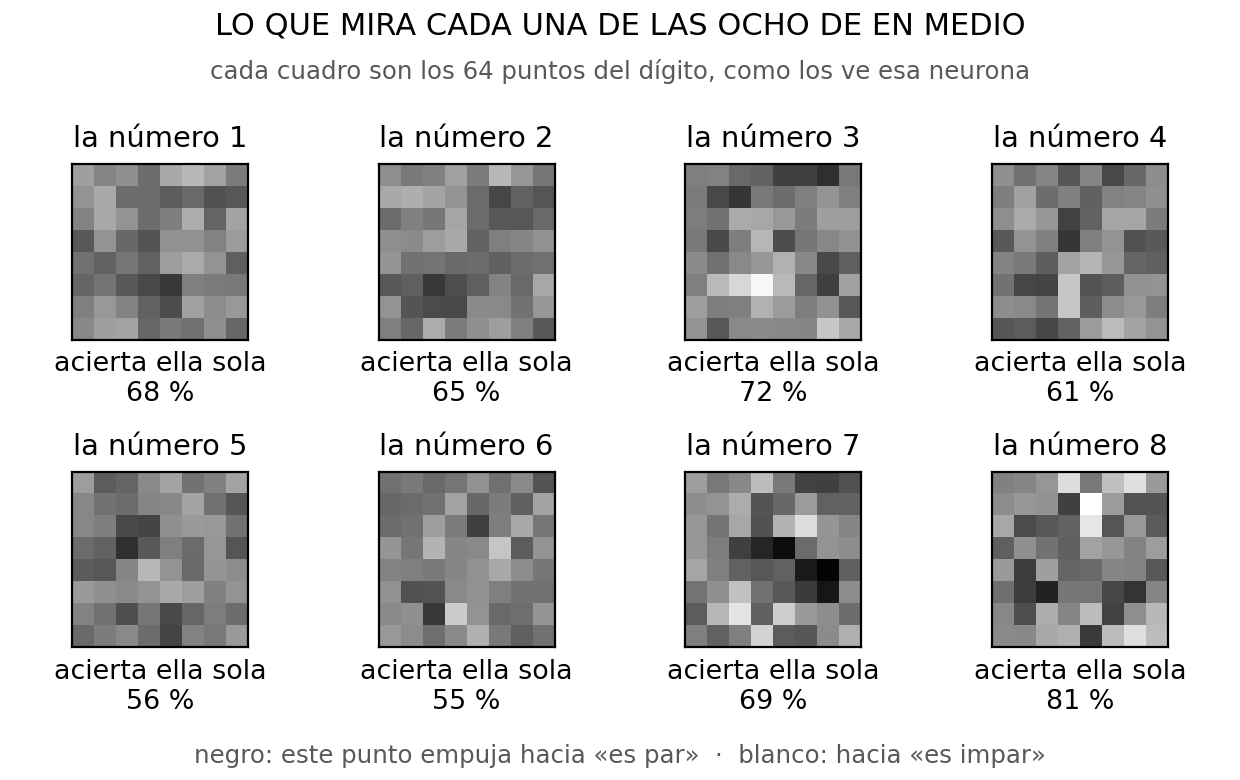
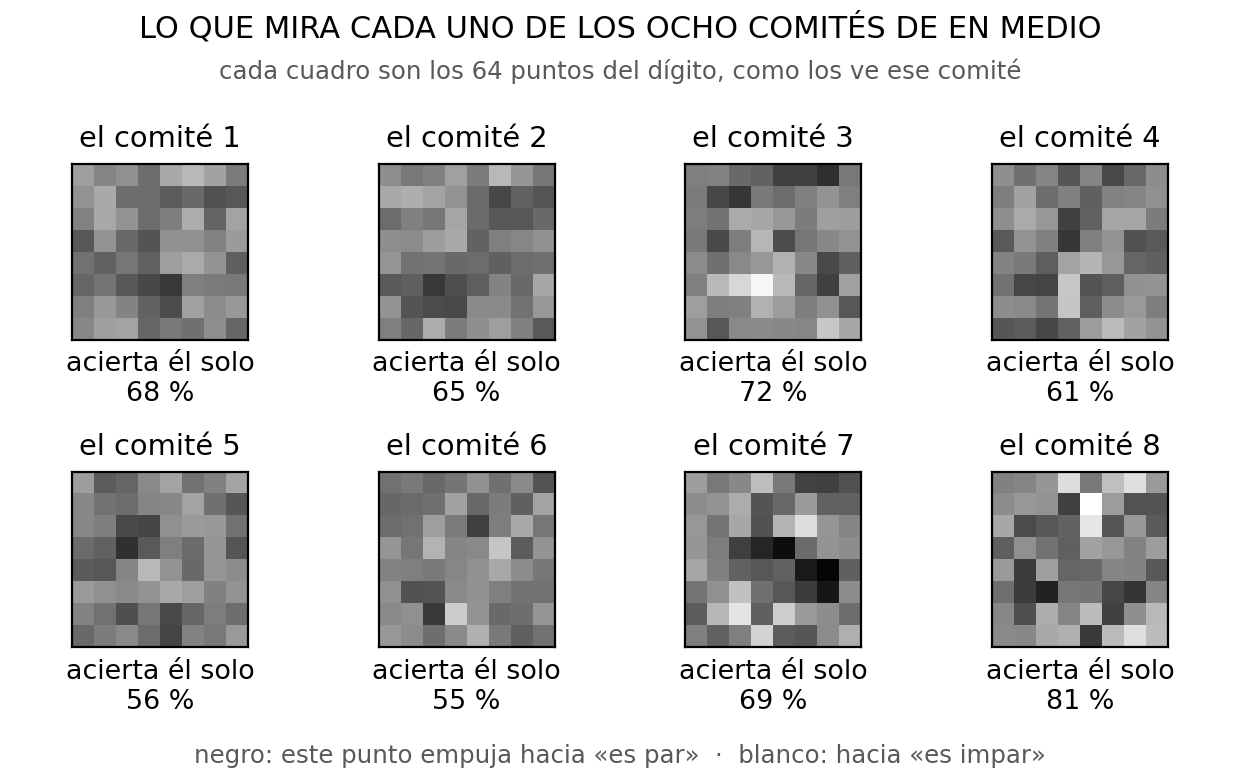
Un comite de miembros, y los ocho de en medio se llaman por su nombre
Carlos, leyendo el capitulo 3: «especificaria que nos referimos a ocho
comites». Al ir a arreglarlo aparecio algo mayor: el aparato del capitulo 2
se llamaba TRIBUNAL (18 veces) y el del 3 COMITE (17 veces), y eran el
mismo. En la misma pagina convivian: la prosa decia «un solo comite» y la
tabla, dos lineas mas abajo, «un solo tribunal, sin capa». El sintoma que
lo delataba era el genero, en un solo parrafo: «la mejor de las ocho» y
tres lineas despues «ninguno de los ocho sirve».

Se queda COMITE, con MIEMBROS. «tribunal» y «jurado» pasan a palabras
jubiladas en VOCABULARIO.md.

- que_mira_cada_una.py: las tres tablas dicen comite y dicen de cuantos
  comites hablan. «1 comite en medio», «2 comites en medio»: el plural se
  dice bien o no se dice.
- figura_una_capa.py: cada cuadro es «el comite N», no «la numero N».
- figura_una_neurona.py: miembros, no jurados.

Claude-Session: https://claude.ai/code/session_012cuTPu3mnKRQtUvBTtLSKH

diff --git a/codigo/que_mira_cada_una.py b/codigo/que_mira_cada_una.py
@@ -2,7 +2,7 @@
 """
 Capítulo de los conceptos — qué mira cada neurona de una capa.
 
-El libro dice que una capa son varios tribunales a la vez, cada uno con una
+El libro dice que una capa son varios comités a la vez, cada uno con una
 pregunta distinta sobre lo mismo, y que nadie les reparte las preguntas. Esto lo
 mide: entrena una red con una capa de en medio sobre dígitos manuscritos de verdad,
 y luego mira, una por una, qué ha acabado mirando cada neurona de esa capa y cuánto
@@ -37,10 +37,10 @@ REPETICIONES = 5               # arranques distintos por tamaño: una sola tirad
 # escondidos dentro de un print a mitad del fichero.
 TITULO_1 = "¿ES PAR ESTE DÍGITO ESCRITO A MANO?"
 SUBTITULO_1 = "de cada 100 dígitos que nunca había visto, cuántos acierta"
-TITULO_2 = "LO QUE ACIERTA, ELLA SOLA, CADA UNA DE LAS OCHO DE EN MEDIO"
-TITULO_3 = "CUÁNTO SE PARECEN ENTRE SÍ ESAS OCHO"
+TITULO_2 = "LO QUE ACIERTA, ÉL SOLO, CADA UNO DE LOS OCHO COMITÉS DE EN MEDIO"
+TITULO_3 = "CUÁNTO SE PARECEN ENTRE SÍ ESOS OCHO COMITÉS"
 SUBTITULO_3 = "(0 % serían ocho preguntas sin nada en común; 100 %, ocho copias)"
-TITULO_4 = "¿Y SI EN MEDIO HAY MÁS, O MENOS?"
+TITULO_4 = "¿Y SI EN MEDIO HAY MÁS COMITÉS, O MENOS?"
 SUBTITULO_4A = "media de {repeticiones} entrenamientos desde cero; entre paréntesis,"
 SUBTITULO_4B = "el peor y el mejor de los {repeticiones}"
 
@@ -90,7 +90,7 @@ def entrenar_con_capa(semilla=SEMILLA, en_medio=EN_MEDIO, permutar=False):
 
 
 def una_raya_sola(semilla=SEMILLA):
-    """La misma pregunta con un solo tribunal: sin capa de en medio. Es el capítulo
+    """La misma pregunta con un solo comité: sin capa de en medio. Es el capítulo
     anterior aplicado a esto, y es la comparación que da sentido a la capa."""
     Xtr, ytr, Xte, yte = datos(semilla)
     red = Red([LADO * LADO, 1], semilla=semilla).entrenar(Xtr, ytr, TASA, PASOS)
@@ -153,24 +153,24 @@ def imprimir(m, aciertos, parecido, sola):
     lineas.append(TITULO_1)
     lineas.append(SUBTITULO_1)
     lineas.append("")
-    fila("un solo tribunal, sin capa", pct(sola))
-    fila("una capa de ocho en medio", pct(m["entera"]))
+    fila("un solo comité, sin capa", pct(sola))
+    fila("una capa de ocho comités en medio", pct(m["entera"]))
     lineas.append("")
     lineas.append("")
 
     lineas.append(TITULO_2)
     lineas.append("")
     for j, a in enumerate(aciertos, 1):
-        fila(f"la número {j}", pct(a))
+        fila(f"el comité número {j}", pct(a))
     lineas.append(f"{'-' * ANCHO}{'-' * 7}")
-    fila("la mejor de las ocho", pct(aciertos.max()))
+    fila("el mejor de los ocho", pct(aciertos.max()))
     lineas.append("")
     lineas.append("")
 
     lineas.append(TITULO_3)
     lineas.append(SUBTITULO_3)
     lineas.append("")
-    fila("las dos que más se parecen", pct(parecido))
+    fila("los dos que más se parecen", pct(parecido))
     lineas.append("")
     lineas.append("")
 
@@ -178,9 +178,12 @@ def imprimir(m, aciertos, parecido, sola):
     lineas.append(SUBTITULO_4A.format(repeticiones=REPETICIONES))
     lineas.append(SUBTITULO_4B.format(repeticiones=REPETICIONES))
     lineas.append("")
-    fila("ninguna, un solo tribunal", pct(sola))
+    fila("ninguno, un solo comité", pct(sola))
     for n, med, lo, hi in barrido_de_anchura():
-        fila(f"{n:>2} en medio", pct(med), f"   (de {coma(100 * lo)} a {coma(100 * hi)})")
+        # «1 comité» y «2 comités»: el plural se dice bien o no se dice. Una tabla que
+        # pone «1 comités» delata que el rótulo se escribió pensando solo en el número.
+        cuantos = f"{n:>2} comité" + ("s" if n > 1 else "") + " en medio"
+        fila(cuantos, pct(med), f"   (de {coma(100 * lo)} a {coma(100 * hi)})")
 
     comprobar_ancho(lineas)
     for l in lineas:

diff --git a/codigo/figura_una_neurona.py b/codigo/figura_una_neurona.py
@@ -6,7 +6,7 @@ artificial» y «red neuronal».
 Cuatro paneles, y los tres primeros salen de un perceptrón entrenado de verdad
 sobre dígitos manuscritos, con la regla de Rosenblatt de `perceptron.py`:
 
-  1. Un cuatro, tal como lo ve la máquina: sesenta y cuatro puntos, uno por jurado.
+  1. Un cuatro, tal como lo ve la máquina: sesenta y cuatro puntos, uno por miembro.
   2. Cuánto se le hace caso a cada punto: los pesos que aprendió, dibujados en el
      mismo cuadrado de ocho por ocho. Negro empuja hacia «es un cuatro», blanco
      hacia «no lo es», gris medio es un punto que no cuenta.
@@ -33,7 +33,7 @@ PUNTOS = 200
 # para que en el papel salgan del tamaño que se quiere, y no más pequeñas.
 ESCALA = 1.0 / 0.72
 
-DIGITO_SI = 4                    # la pregunta del tribunal en el libro: ¿esto es un cuatro?
+DIGITO_SI = 4                    # la pregunta del comité en el libro: ¿esto es un cuatro?
 DIGITO_NO = 9                    # el que más se le parece escrito a mano
 LADO = 8                         # los dibujos son de ocho puntos por ocho
 SEMILLA_FIGURA = 20260916
@@ -76,7 +76,7 @@ from matplotlib.gridspec import GridSpec
 from perceptron import cargar_digitos, entrenar, acierto
 
 
-def entrenar_el_tribunal(semilla=SEMILLA_FIGURA, permutar=False):
+def entrenar_el_comite(semilla=SEMILLA_FIGURA, permutar=False):
     """Un perceptrón que separa DIGITO_SI de DIGITO_NO, con la regla de Rosenblatt.
 
     Con permutar=True se le barajan las etiquetas: es el test nulo."""
@@ -178,7 +178,7 @@ def panel_red(ax):
 
 
 def dibujar():
-    m = entrenar_el_tribunal()
+    m = entrenar_el_comite()
     i_si, i_no = ejemplos(m)
     puntos, liston = puntos_y_liston(m, (i_si, i_no))
 
@@ -206,14 +206,14 @@ def dibujar():
 
 def selftest():
     fallos = []
-    m = entrenar_el_tribunal()
+    m = entrenar_el_comite()
     i_si, i_no = ejemplos(m)
     puntos, liston = puntos_y_liston(m, (i_si, i_no))
 
     # [1] Test nulo: con las etiquetas barajadas no hay nada que aprender, y el
     #     acierto tiene que caerse al azar. Si no se cae, la figura estaría
     #     dibujando pesos que no significan nada.
-    nulo = entrenar_el_tribunal(permutar=True)
+    nulo = entrenar_el_comite(permutar=True)
     print(f"[1] test nulo         etiquetas barajadas: acierto {nulo['acierto']:.3f} "
           f"(azar = 0,5); de verdad: {m['acierto']:.3f}")
     if nulo["acierto"] > 0.7:

diff --git a/codigo/figura_una_capa.py b/codigo/figura_una_capa.py
@@ -28,8 +28,8 @@ PARECIDO_MAXIMO_ADMISIBLE = 0.90   # por encima de esto, dos neuronas son la mis
 # El título y la clave. Ocho cuadros grises sin rótulo no dicen nada: hay que decir qué
 # es un cuadro (los 64 puntos del dígito), qué es el negro y qué es el blanco. La figura
 # tiene que poder entenderse sin el párrafo que la presenta.
-TITULO = "LO QUE MIRA CADA UNA DE LAS OCHO DE EN MEDIO"
-SUBTITULO = "cada cuadro son los 64 puntos del dígito, como los ve esa neurona"
+TITULO = "LO QUE MIRA CADA UNO DE LOS OCHO COMITÉS DE EN MEDIO"
+SUBTITULO = "cada cuadro son los 64 puntos del dígito, como los ve ese comité"
 CLAVE = "negro: este punto empuja hacia «es par»  ·  blanco: hacia «es impar»"
 
 # ==========================================================
@@ -37,6 +37,7 @@ CLAVE = "negro: este punto empuja hacia «es par»  ·  blanco: hacia «es impar
 import argparse
 import sys
 
+from formato import pct
 import numpy as np
 import matplotlib
 matplotlib.use("Agg")
@@ -57,8 +58,8 @@ def dibujar():
     lim = np.abs(W).max()
     for j, ax in enumerate(ejes.ravel()):
         ax.imshow(W[:, j].reshape(LADO, LADO), cmap="gray_r", vmin=-lim, vmax=lim)
-        ax.set_title(f"la número {j + 1}", fontsize=10.4)
-        ax.set_xlabel(f"acierta ella sola\n{100 * aciertos[j]:.0f} %", fontsize=9.7)
+        ax.set_title(f"el comité {j + 1}", fontsize=10.4)
+        ax.set_xlabel(f"acierta él solo\n{pct(aciertos[j], 0)}", fontsize=9.7)
         ax.set_xticks([]); ax.set_yticks([])
         for s in ax.spines.values():
             s.set_linewidth(0.8)
